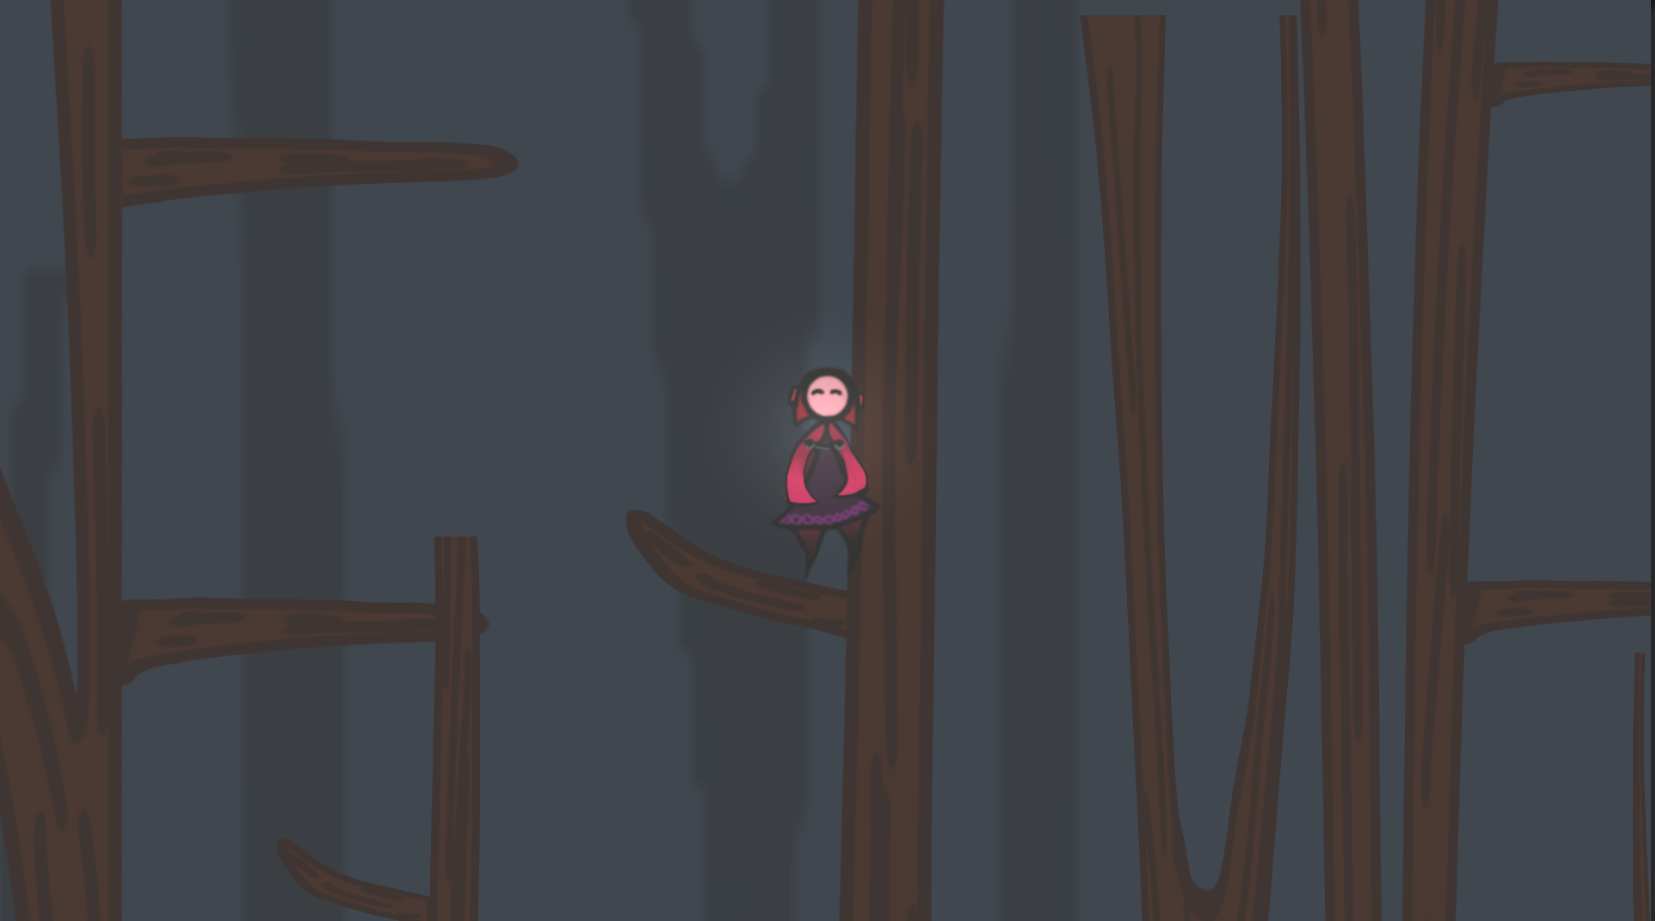
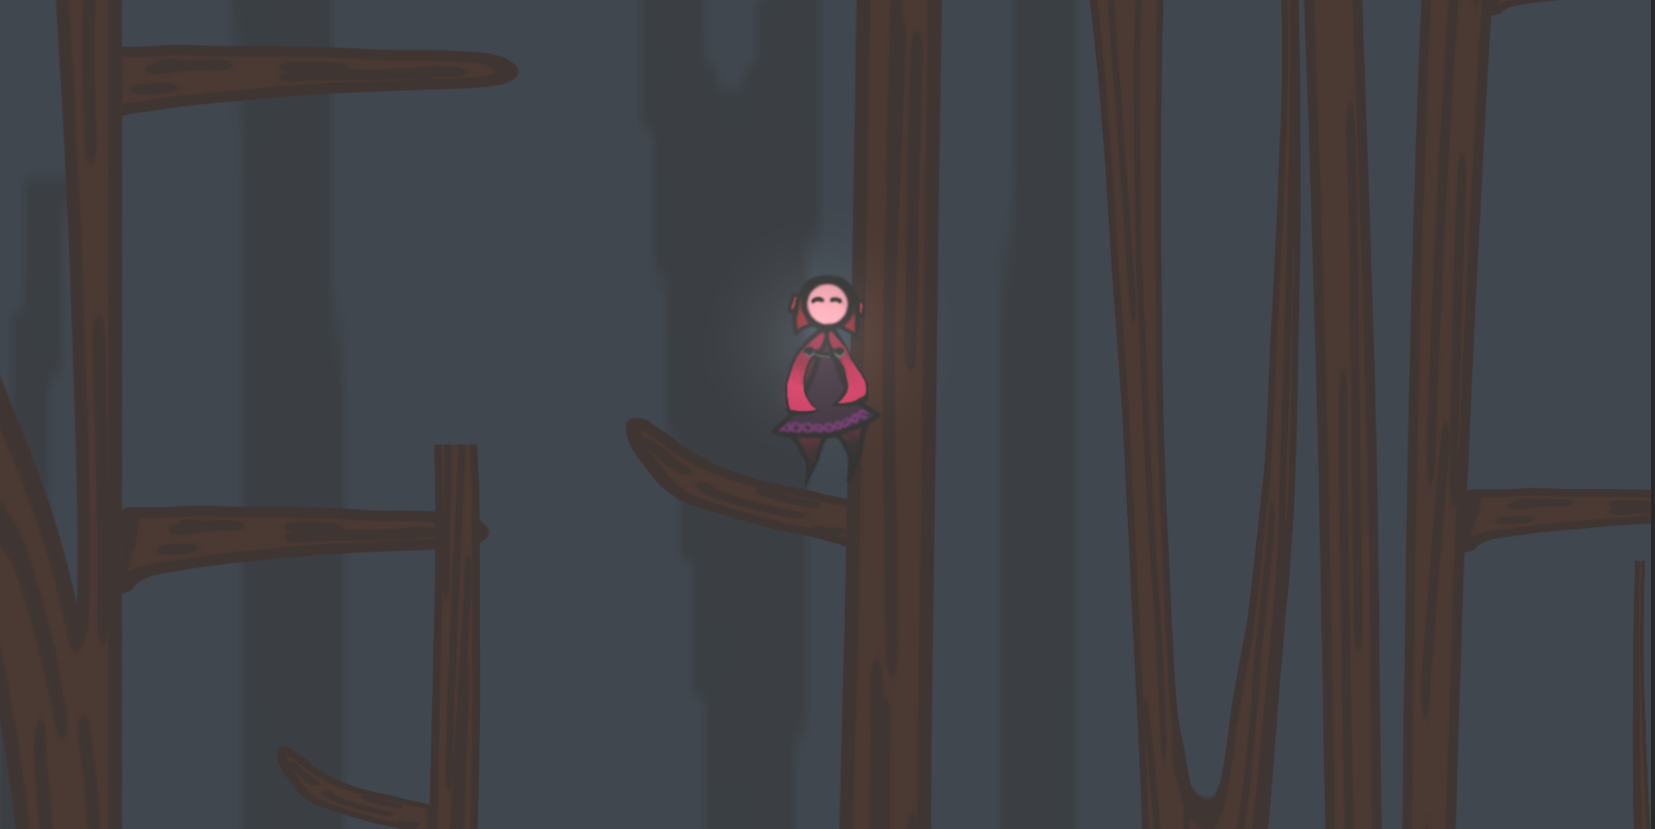
updates to the home page

diff --git a/index.html b/index.html
@@ -25,7 +25,7 @@
         </div>
     </header>
 
-    <div class="top">
+    <div class="top pic1">
         <h1 class="subHeader">Alexandria Genchev</h1>
         <h2 class="subHeader">Game Developer  |  Programmer  |  Artist  |  Web Developer</h2>
     </div>
@@ -65,9 +65,13 @@
         <p>E: alexx.genchev@gmail.com</p>
         <p>S: gencha@rpi.edu</p>
         <h3 class="subHeader">My Work</h3>
-        <a href="https://alexxgen.itch.io/" target="_blank">Itch</a>
-        <a href="https://github.com/AlexxGen" target="_blank">Github</a>
-        <a href="https://www.linkedin.com/in/alexandria-genchev/" target="_blank">LinkedIn</a>
+
+        <p> 
+            <a href="https://alexxgen.itch.io/" target="_blank">Itch</a>
+            <a href="https://github.com/AlexxGen" target="_blank">Github</a>
+            <a href="https://www.linkedin.com/in/alexandria-genchev/" target="_blank">LinkedIn</a>
+        </p>
+
     </footer>
 </body>
 </html>

diff --git a/StyleSheets/main.css b/StyleSheets/main.css
@@ -40,7 +40,7 @@ header a{
 }
 
 .top{
-    height: 25rem;
+    height: 35rem;
     width: 100%;
     background-color: brown;
 }
@@ -58,8 +58,24 @@ h1{
 }
 
 .latest{
-    margin-left: 70px;
-    margin-right: 70px;
+    margin-left: 100px;
+    margin-right: 100px;
+}
+
+.aboutMe{
+    margin-left: 100px;
+    margin-right: 100px;
+}
+
+footer{
+    text-align: center;
+}
+
+footer a{
+    color: white;
+    margin: 1%;
+    margin-right: 2%;
+    margin-left: 2%;
 }
 
 /* classes added in js */
@@ -68,5 +84,5 @@ h1{
 }
 
 .pic1{
-    background-image: "./";
+    background-image: url("../Images/HiddenPines/HiddenPines1.png");
 }
